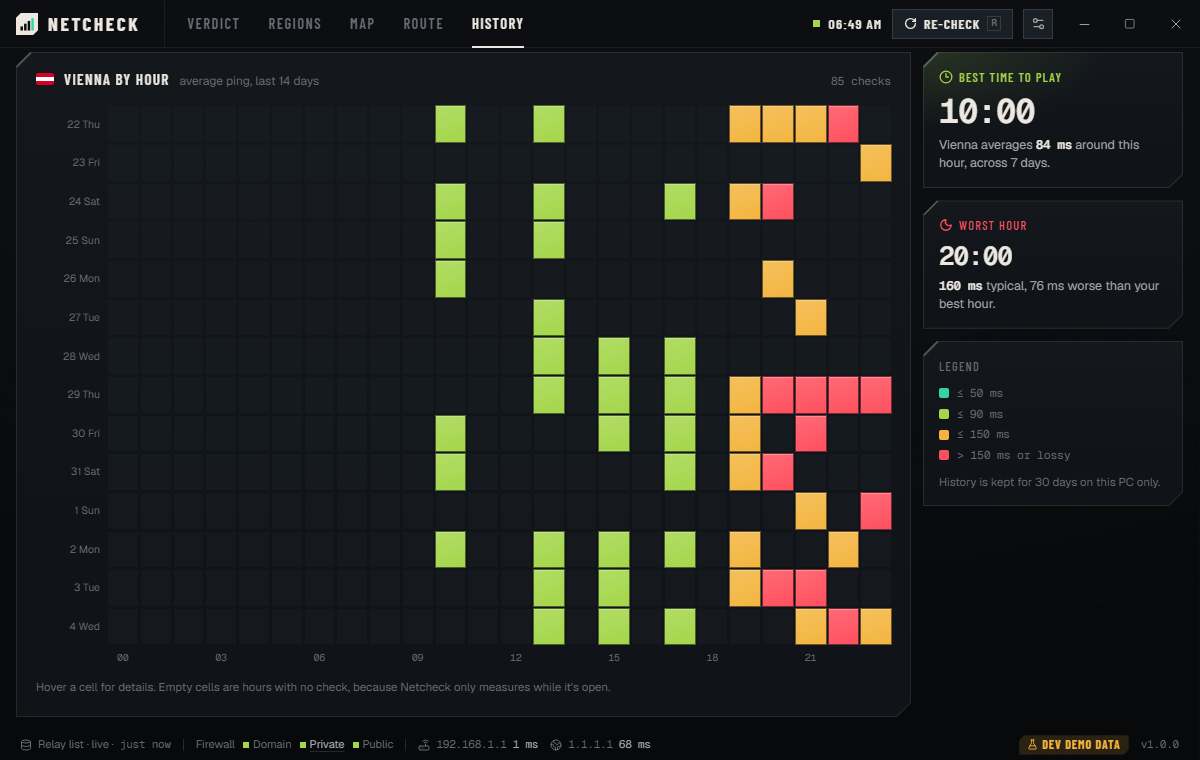
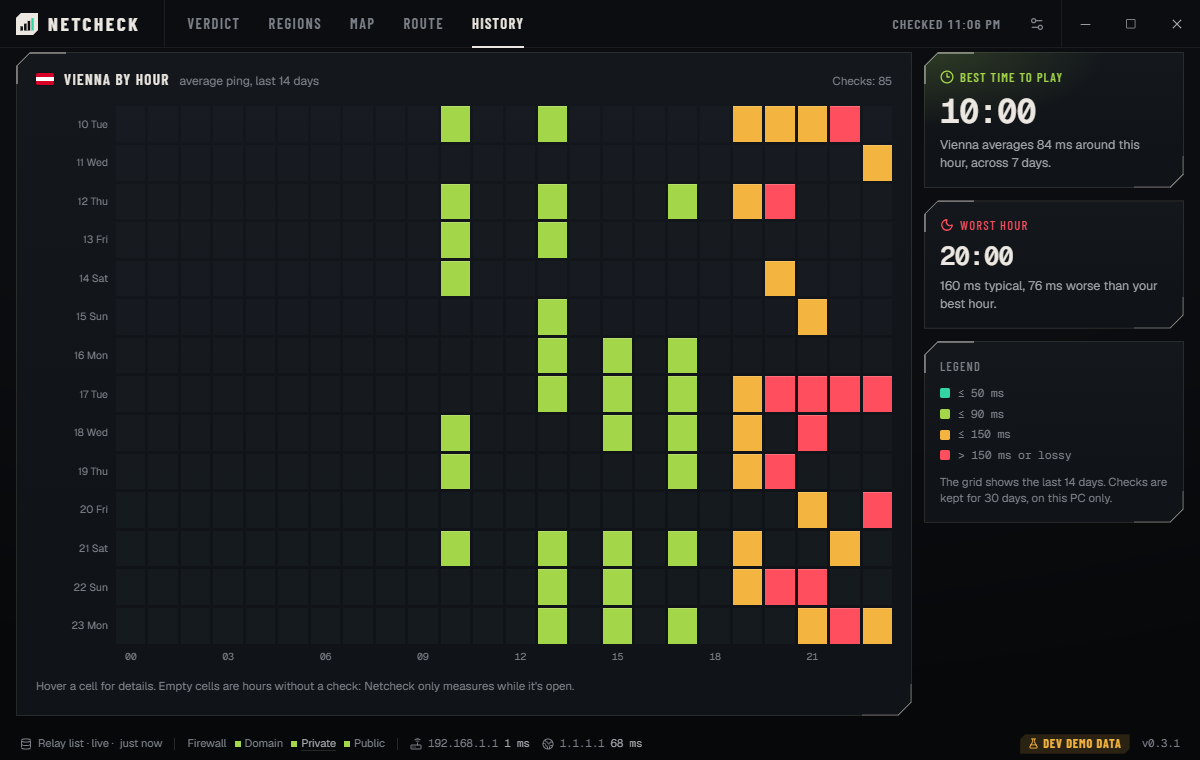
Refresh screenshots with a new capture script

diff --git a/src/App.tsx b/src/App.tsx
@@ -23,6 +23,12 @@ const SCREENS: Record<Tab, () => React.JSX.Element | null> = {
   settings: SettingsScreen,
 };
 
+// The demo's ?tab= applies before the first render, so screenshots don't catch a screen transition.
+if (import.meta.env.VITE_NETCHECK_DEMO === "1") {
+  const demoTab = new URLSearchParams(window.location.search).get("tab");
+  if (demoTab && demoTab in SCREENS) useApp.setState({ tab: demoTab as Tab });
+}
+
 function useTheme() {
   const theme = useApp((s) => s.settings?.theme ?? "system");
   useEffect(() => {
@@ -57,8 +63,6 @@ function useBoot() {
       const settings = await backend.getSettings();
       useApp.setState({ backend, settings, preferred: settings.preferredRegion });
       window.setTimeout(() => void backend.window.show(), 30);
-      const demoTab = backend.demo ? new URLSearchParams(window.location.search).get("tab") : null;
-      if (demoTab && demoTab in SCREENS) useApp.getState().setTab(demoTab as Tab);
       void useApp.getState().startCheck();
       void useApp.getState().loadHistory();
     })();

diff --git a/README.md b/README.md
@@ -65,6 +65,8 @@ background updater, and it never needs admin rights.
 | ![The history heatmap of ping by hour](docs/screenshots/history.png) | ![The verdict screen in the light theme](docs/screenshots/light.png) |
 | **Update prompt** | **Settings** |
 | ![The update dialog with the new version and its notes](docs/screenshots/update.png) | ![Settings, including the language and update check](docs/screenshots/settings.png) |
+| **Map scan** | **Persian, right to left** |
+| ![The scanner halfway round, with only the regions it has passed revealed](docs/screenshots/map-sweep.png) | ![The verdict screen in Persian](docs/screenshots/persian.png) |
 <sub>The animation above is the real app on a live connection. These screenshots come
 from the built-in demo backend, which replays synthetic results and marks every
 screen <b>DEV DEMO DATA</b>. Real IPs never appear in them.</sub>

diff --git a/CONTRIBUTING.md b/CONTRIBUTING.md
@@ -107,8 +107,9 @@ date.
 - Keep each pull request to one change, and say what you verified and how.
 - Add or update tests for behavior changes. Measurement and diagnosis logic
   needs a test with a literal expected value.
-- UI changes need before and after screenshots. `scripts/screenshots.ps1`
-  regenerates the README images from the demo backend.
+- UI changes need before and after screenshots. `node scripts/screenshots.mjs`
+  rebuilds the demo and regenerates the README images with headless Chrome or
+  Edge.
 - Add a line under `Unreleased` in [CHANGELOG.md](CHANGELOG.md) for anything
   user-visible.
 - New or changed UI text goes in `src/i18n/en.ts` and in every other language

diff --git a/docs/how-it-works.md b/docs/how-it-works.md
@@ -255,7 +255,7 @@ Add `&theme=light`, `&lang=fa` (any language code in `src/i18n/`), `&speed=0.5` 
 `history`, `settings`) as needed. Demo data uses only RFC 5737 documentation
 IPs and shows a **DEV DEMO DATA** badge. It's only compiled in for `--mode demo`,
 and CI checks that release bundles don't contain it.
-[`scripts/screenshots.ps1`](../scripts/screenshots.ps1) captures the README
+[`scripts/screenshots.mjs`](../scripts/screenshots.mjs) captures the README
 images from these scenarios.
 
 ## Screens and states

diff --git a/CHANGELOG.md b/CHANGELOG.md
@@ -28,6 +28,10 @@ versions may change behavior and settings.
 - The light theme uses cooler, cleaner neutrals and grade colours with better
   contrast.
 - Rewrote the verdict and route explanations to be shorter and more specific.
+- Panel corners have traced, machined edges, and Re-check has a framed button
+  that shows the check's progress.
+- The map scan keeps running when Windows animation effects are off, since it
+  shows the check's progress.
 
 ## [0.3.1] - 2026-11-04
 
